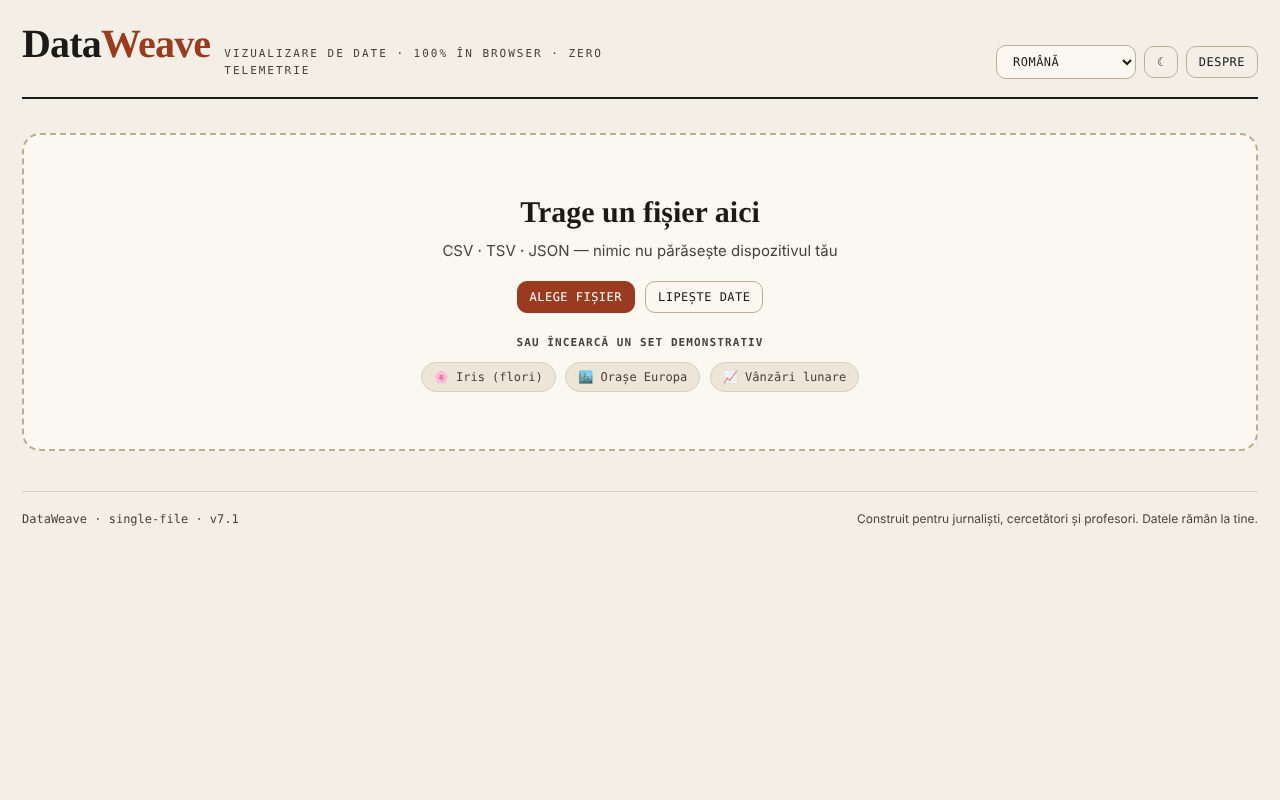
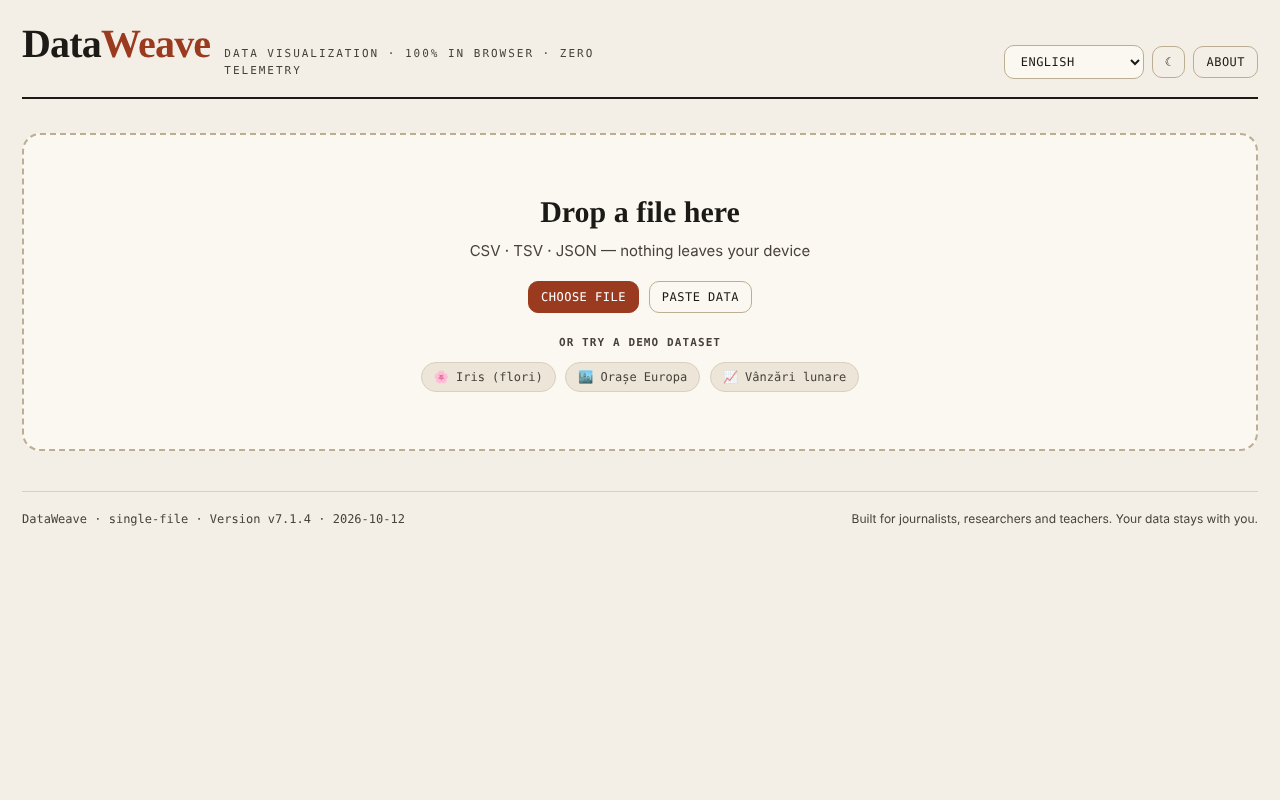
Versiune și dată ultimă actualizare (12 octombrie 2026) în aplicație și README
Claude-Session: https://claude.ai/code/session_01D2sCEb3hy3nutYexhUfQFs

diff --git a/index.html b/index.html
@@ -19,13 +19,15 @@
 <html lang="ro">
 <head>
 <meta charset="UTF-8">
+<meta name="application-version" content="7.1.4">
+<meta name="last-updated" content="2026-10-12">
 <style id="tf-a11y-motion">
 /* Accesibilitate: respectă preferința utilizatorului pentru mai puțină mișcare (TROM/a11y). */
 @media (prefers-reduced-motion: reduce){
   *,*::before,*::after{animation-duration:.001ms!important;animation-iteration-count:1!important;transition-duration:.001ms!important;scroll-behavior:auto!important}
 }
 </style>
-  <meta http-equiv="Content-Security-Policy" content="default-src 'self'; img-src 'self' data: blob:; style-src 'self' 'unsafe-inline'; font-src 'self' data:; media-src 'self' blob: data:; object-src 'none'; base-uri 'self'; form-action 'self'; worker-src 'none'; script-src 'self' 'sha256-CJVLC/vPJ1S8ONE/Aopqj7pxhMpUZyA8dMIPQwmLBdU='; connect-src 'none'">
+  <meta http-equiv="Content-Security-Policy" content="default-src 'self'; img-src 'self' data: blob:; style-src 'self' 'unsafe-inline'; font-src 'self' data:; media-src 'self' blob: data:; object-src 'none'; base-uri 'self'; form-action 'self'; worker-src 'none'; script-src 'self' 'sha256-yJ9t002Juxvy68aj5b+egBi8tCSFvmW58CWKeCzlZIc='; connect-src 'none'">
 <meta name="viewport" content="width=device-width, initial-scale=1.0">
 <title>DataWeave — atelier de date offline</title>
 <meta name="description" content="Drag a CSV or JSON into the page and get instant interactive charts, pivot tables and descriptive statistics. No server, no account, no telemetry. One HTML file.">
@@ -520,7 +522,7 @@
   </main>
 
   <footer>
-    <span class="mono">DataWeave · single-file · <span id="ver">v7.1.3</span></span>
+    <span class="mono">DataWeave · single-file · <span data-i18n="versionLbl">Versiune</span> <span id="app-version">v7.1.4 · 2026-10-12</span></span>
     <span data-i18n="footRight">Construit pentru jurnaliști, cercetători și profesori. Datele rămân la tine.</span>
   </footer>
 </div>
@@ -569,6 +571,7 @@ const I18N = {
     corrNote:"Matricea de corelație Pearson între coloanele numerice.",
     corrMethod:"Metodă", mPearson:"Pearson", mSpearman:"Spearman", resetView:"Resetează vizualizarea",
     footRight:"Construit pentru jurnaliști, cercetători și profesori. Datele rămân la tine.",
+    versionLbl:"Versiune",
     none:"(niciuna)", count:"număr", total:"Total general",
     rows:n=>n+" rânduri", cols:n=>n+" coloane", shown:(a,b)=>a+" din "+b+" afișate",
     statN:"n (valori)", statMiss:"lipsă", statUniq:"unice", statMean:"medie", statMedian:"mediană",
@@ -618,6 +621,7 @@ const I18N = {
     corrNote:"Pearson correlation matrix across numeric columns.",
     corrMethod:"Method", mPearson:"Pearson", mSpearman:"Spearman", resetView:"Reset view",
     footRight:"Built for journalists, researchers and teachers. Your data stays with you.",
+    versionLbl:"Version",
     none:"(none)", count:"count", total:"Grand total",
     rows:n=>n+" rows", cols:n=>n+" columns", shown:(a,b)=>a+" of "+b+" shown",
     statN:"n (values)", statMiss:"missing", statUniq:"unique", statMean:"mean", statMedian:"median",
@@ -667,6 +671,7 @@ const I18N = {
     corrNote:"Matrice de corrélation de Pearson entre les colonnes numériques.",
     corrMethod:"Méthode", mPearson:"Pearson", mSpearman:"Spearman", resetView:"Réinitialiser la vue",
     footRight:"Conçu pour les journalistes, chercheurs et enseignants. Vos données restent chez vous.",
+    versionLbl:"Version",
     none:"(aucune)", count:"nombre", total:"Total général",
     rows:n=>n+" lignes", cols:n=>n+" colonnes", shown:(a,b)=>a+" sur "+b+" affichées",
     statN:"n (valeurs)", statMiss:"manquants", statUniq:"uniques", statMean:"moyenne", statMedian:"médiane",
@@ -715,6 +720,7 @@ const I18N = {
     corrNote:"Matrice di correlazione di Pearson tra le colonne numeriche.",
     corrMethod:"Metodo", mPearson:"Pearson", mSpearman:"Spearman", resetView:"Reimposta vista",
     footRight:"Creato per giornalisti, ricercatori e insegnanti. I tuoi dati restano con te.",
+    versionLbl:"Versione",
     none:"(nessuna)", count:"conteggio", total:"Totale generale",
     rows:n=>n+" righe", cols:n=>n+" colonne", shown:(a,b)=>a+" di "+b+" mostrate",
     statN:"n (valori)", statMiss:"mancanti", statUniq:"uniche", statMean:"media", statMedian:"mediana",
@@ -763,6 +769,7 @@ const I18N = {
     corrNote:"Matriz de correlación de Pearson entre columnas numéricas.",
     corrMethod:"Método", mPearson:"Pearson", mSpearman:"Spearman", resetView:"Restablecer vista",
     footRight:"Creado para periodistas, investigadores y docentes. Tus datos se quedan contigo.",
+    versionLbl:"Versión",
     none:"(ninguna)", count:"recuento", total:"Total general",
     rows:n=>n+" filas", cols:n=>n+" columnas", shown:(a,b)=>a+" de "+b+" mostradas",
     statN:"n (valores)", statMiss:"faltantes", statUniq:"únicos", statMean:"media", statMedian:"mediana",
@@ -810,6 +817,7 @@ const I18N = {
     pvRows:"Linhas (agrupar)", pvCols:"Colunas (opcional)", pvVal:"Valor",
     corrNote:"Matriz de correlação de Pearson entre colunas numéricas.",
     footRight:"Feito para jornalistas, investigadores e professores. Os seus dados ficam consigo.",
+    versionLbl:"Versão",
     none:"(nenhuma)", count:"contagem", total:"Total geral",
     rows:n=>n+" linhas", cols:n=>n+" colunas", shown:(a,b)=>a+" de "+b+" mostradas",
     statN:"n (valores)", statMiss:"em falta", statUniq:"únicos", statMean:"média", statMedian:"mediana",
@@ -858,6 +866,7 @@ const I18N = {
     pvRows:"Zeilen (gruppieren)", pvCols:"Spalten (optional)", pvVal:"Wert",
     corrNote:"Pearson-Korrelationsmatrix zwischen numerischen Spalten.",
     footRight:"Für Journalisten, Forschende und Lehrkräfte gemacht. Ihre Daten bleiben bei Ihnen.",
+    versionLbl:"Version",
     none:"(keine)", count:"Anzahl", total:"Gesamtsumme",
     rows:n=>n+" Zeilen", cols:n=>n+" Spalten", shown:(a,b)=>a+" von "+b+" angezeigt",
     statN:"n (Werte)", statMiss:"fehlend", statUniq:"eindeutig", statMean:"Mittelwert", statMedian:"Median",

diff --git a/README.md b/README.md
@@ -1,10 +1,10 @@
 # DataWeave
 
+**Versiune:** 7.1.4 · **Ultima actualizare:** 12 octombrie 2026
+
 Atelier de vizualizare și analiză a datelor tabelare, direct în browser.
 
 **Live:** https://chiuta.github.io/DataWeave/
-
-Ultima actualizare: 11 octombrie 2026 · versiune 7.1.3
 
 ![Captura de ecran](screenshot.png)
 
@@ -48,6 +48,9 @@ DataWeave este o aplicație HTML dintr-un singur fișier pentru explorarea fiși
 Descarcă `index.html` și deschide-l în browser; nu are nevoie de internet.
 
 ## Istoric / Changelog
+
+### 7.1.4 — 12 octombrie 2026
+- Versiunea și data ultimei actualizări sunt afișate în aplicație (subsol).
 
 ### 7.1.3 — 11 octombrie 2026
 - Setul demonstrativ Iris conține acum cele 150 de rânduri clasice (înainte 20).
